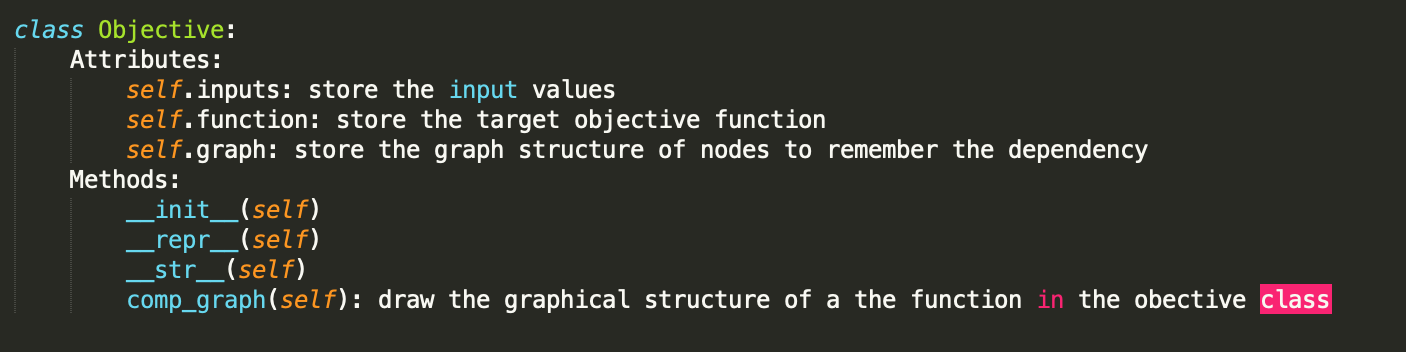
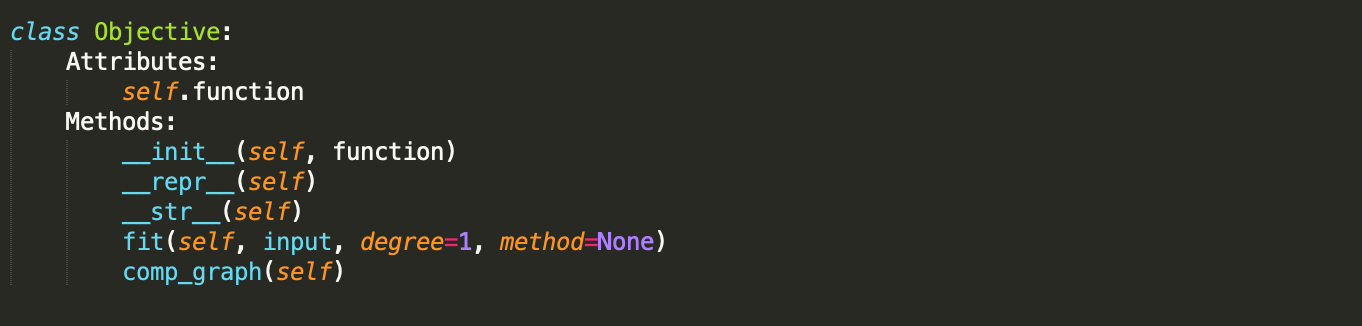
update implementation based on feedback

Changed region(s): [[0.0, 0.0613, 0.9559, 0.8896]]

diff --git a/docs/milestone1.md b/docs/milestone1.md
@@ -130,35 +130,45 @@ As of right now we are still working on this project, so we could potentially ma
 
 #### Classes
 
-![classes.png](images/classes.png)
+Our implementation will use 3 classes:
 
-The most generic base class will be the `Node` class to accomodate for the different nodes in the AD structure. Each node class will then be extended to create more specific nodes, such as a node representing an operator or input literal, along with another node type representing a variable. We will override the basic operators and elementary fucntions in this class.
-
-We will then have a `Objective` class that is a collection of these nodes and the edges between them that encapsulates the operations.
-
-We will also have two other classes, `Forward` for forward mode AD and `Reverse` for backward mode AD. 
+- Objective class: contains the objective functions, can also directly fit input data and calculate derivative using either forward or reverse mode depending on the paramter chosen
+- Forward class: perform forward mode automatic differentiation on target function, evaluated with input value
+- Reverse class: perform reverse mode automatic differentiation on target function, evaluated with input value
 
 #### Methods and Name Attributes
 
+##### Objective class
+
+The `Objective` class will store the expression of the target objective function in `function`.
+
+- `comp_graph()`: draw the graph structure of the automatic differentiation for the specified function. 
+- `fit()`: allow user to fit input values directly to the objective function. If an method is specified, it will be applied. If no automatic differentiation methods is provided, then the optimial mode for the given function will be decided and applied. For instance, for a function with input dimension R ^ n and output dimension R ^ m:
+	- If n < m, reverse mode AD will be use
+	- If n > m, reverse mode AD will be uses
+
 ![objective_class.png](images/objective_class.png)
 
-The `Objective` class will store the expression of the target objective function in `function`, and the nodes composing it in `Node`. It will have a method `comp_graph()`  to draw the graph structure of the automatic differentiation for the specified function. 
+##### Forward class
 
-![forward_class.png](images/forward_class.png)
+A `Forward` instance will store a function in `targetFunc` and the expressions of the forward tangent trace in `primal` and `tangent`. 
 
-A `Forward` instance will store a function and its nodes (together of the `Objective` class type) in `targetFunc` and the expressions of the forward tangent trace in `trace`. It will have a method `fit()` that is able to calculate the gradients using forward mode AD based on input. 
+- `fit()`: that is able to calculate the gradients using forward mode AD based on input, if no degree is specified, first derivative will be calculated.
+- Overload basic operations: basic operation such as `__add__`, `__sub__` will be overload to support either dual numbers operation or dual number and scaler operation. It will also be implemented to support both scaler and vector input.
+- Overload elementary operations: elementary operation such as `sin`, `cos` will also be overload to support either dual numbers operation or dual number and scaler operation. It will also be implemented to support both scaler and vector input.
+
+![forward_class.png](images/forward_class.png) 
+
+##### Reverse Class
+
+A `Reverse` instance will store a function in `targetFunc` and the structure of the function in `tapeEntry` , the expressions of forward partial derivatives in `forwardPD`, and the expressions of reverse partial derivatives in `reversePD`. 
+
+- `fit()`: that is able to calculate the gradients using reverse mode AD based on input, if no degree is specified, first derivative will be calculated.
+- `reverse_pass_gradient`: calculate reverse pass the derivative recursively base on the graph structure stored in `tapeEntry`.
+- Overload basic operations: basic operation such as `__add__`, `__sub__` will be overload to support either dual numbers operation or dual number and scaler operation. It will also be implemented to support both scaler and vector input.
+- Overload elementary operations: elementary operation such as `sin`, `cos` will also be overload to support either dual numbers operation or dual number and scaler operation. It will also be implemented to support both scaler and vector input.
 
 ![reverse_class.png](images/reverse_class.png)
-
-A `Reverse` instance will store a function and its nodes (together of the `Objective` class type) in `targetFunc`, the structure of the function in tapeEntry (of the `tapeEntry` class type), the expressions of forward partial derivatives in `forwardPD`, and the expressions of reverse partial derivatives in `reversePD`. It will have a method `fit()` that is able to calculate the gradients using reverse mode AD based on input. 
-
-![tape_entry_class.png](images/tape_entry_class.png)
-
-A `tapeEntry` instance will store the graphical structure of each node. It will have a `get_tape` method which will return the node's children as a list. It will also have a `reset_tape` method to reset the history once a node is evaluated. This will be used for reverse mode automatic differentiation.
-
-![node_class.png](images/node_class.png)
-
-A `Node` instance will store the variables in the graph as nodes. Each node will have `primal` and `tangent` as their attribute to store the primal and tangent trace. It will have basic arithmatic operations such as `sin`, `cos`, and `add`, `sub` with overridden methods for dual numbers. 
 
 #### External Dependencies
 
@@ -195,6 +205,12 @@ Comments: You may want to mention Codecov as well for the test coverage of your 
 
 #### Implementations 3.5/4 
 Comments: It seems that you are dealing with a lot of classes, which might be problematic in implmentation. Also you may want to illustrate more about how you deal with vector functions of vectors and scalar function of vectors. 
+
+Response: We decided to reduce our class type to Objective, Forward and Reverse to make the implementation process easier. We will implement the attributes and overload the basic operation (`__add__`, `__sub__`, etc) and elementary operation (`sin`, `cos`, etc) functions in the previous `Node` class inside `Forward` and `Reverse` class now. We will also replace the `TapeEntry` class and simply create a `tapeEntry` variable with `get_tape()` and `reset_tape()` functions in the Reverse class to keep track of the graphical structure and dependency of node. 
+
+To deal with vector functions of vectors and scalar functions of vector, we will first check for the input functions type as vector or scaler in our when initializing the `Objective`, `Forward` or `Reverse` class, the input function will be stored as an attribute, and if multiple functions are input, the the `fit()` function will be execute on each of the function. 
+
+We will also check the input data type for the function variable as either scaler or vector. The overloaded functions will contain methods to execute the respective operation for both scaler and vector input.  
 
 #### License 2/2 
 Comments: Great Discussion! 
